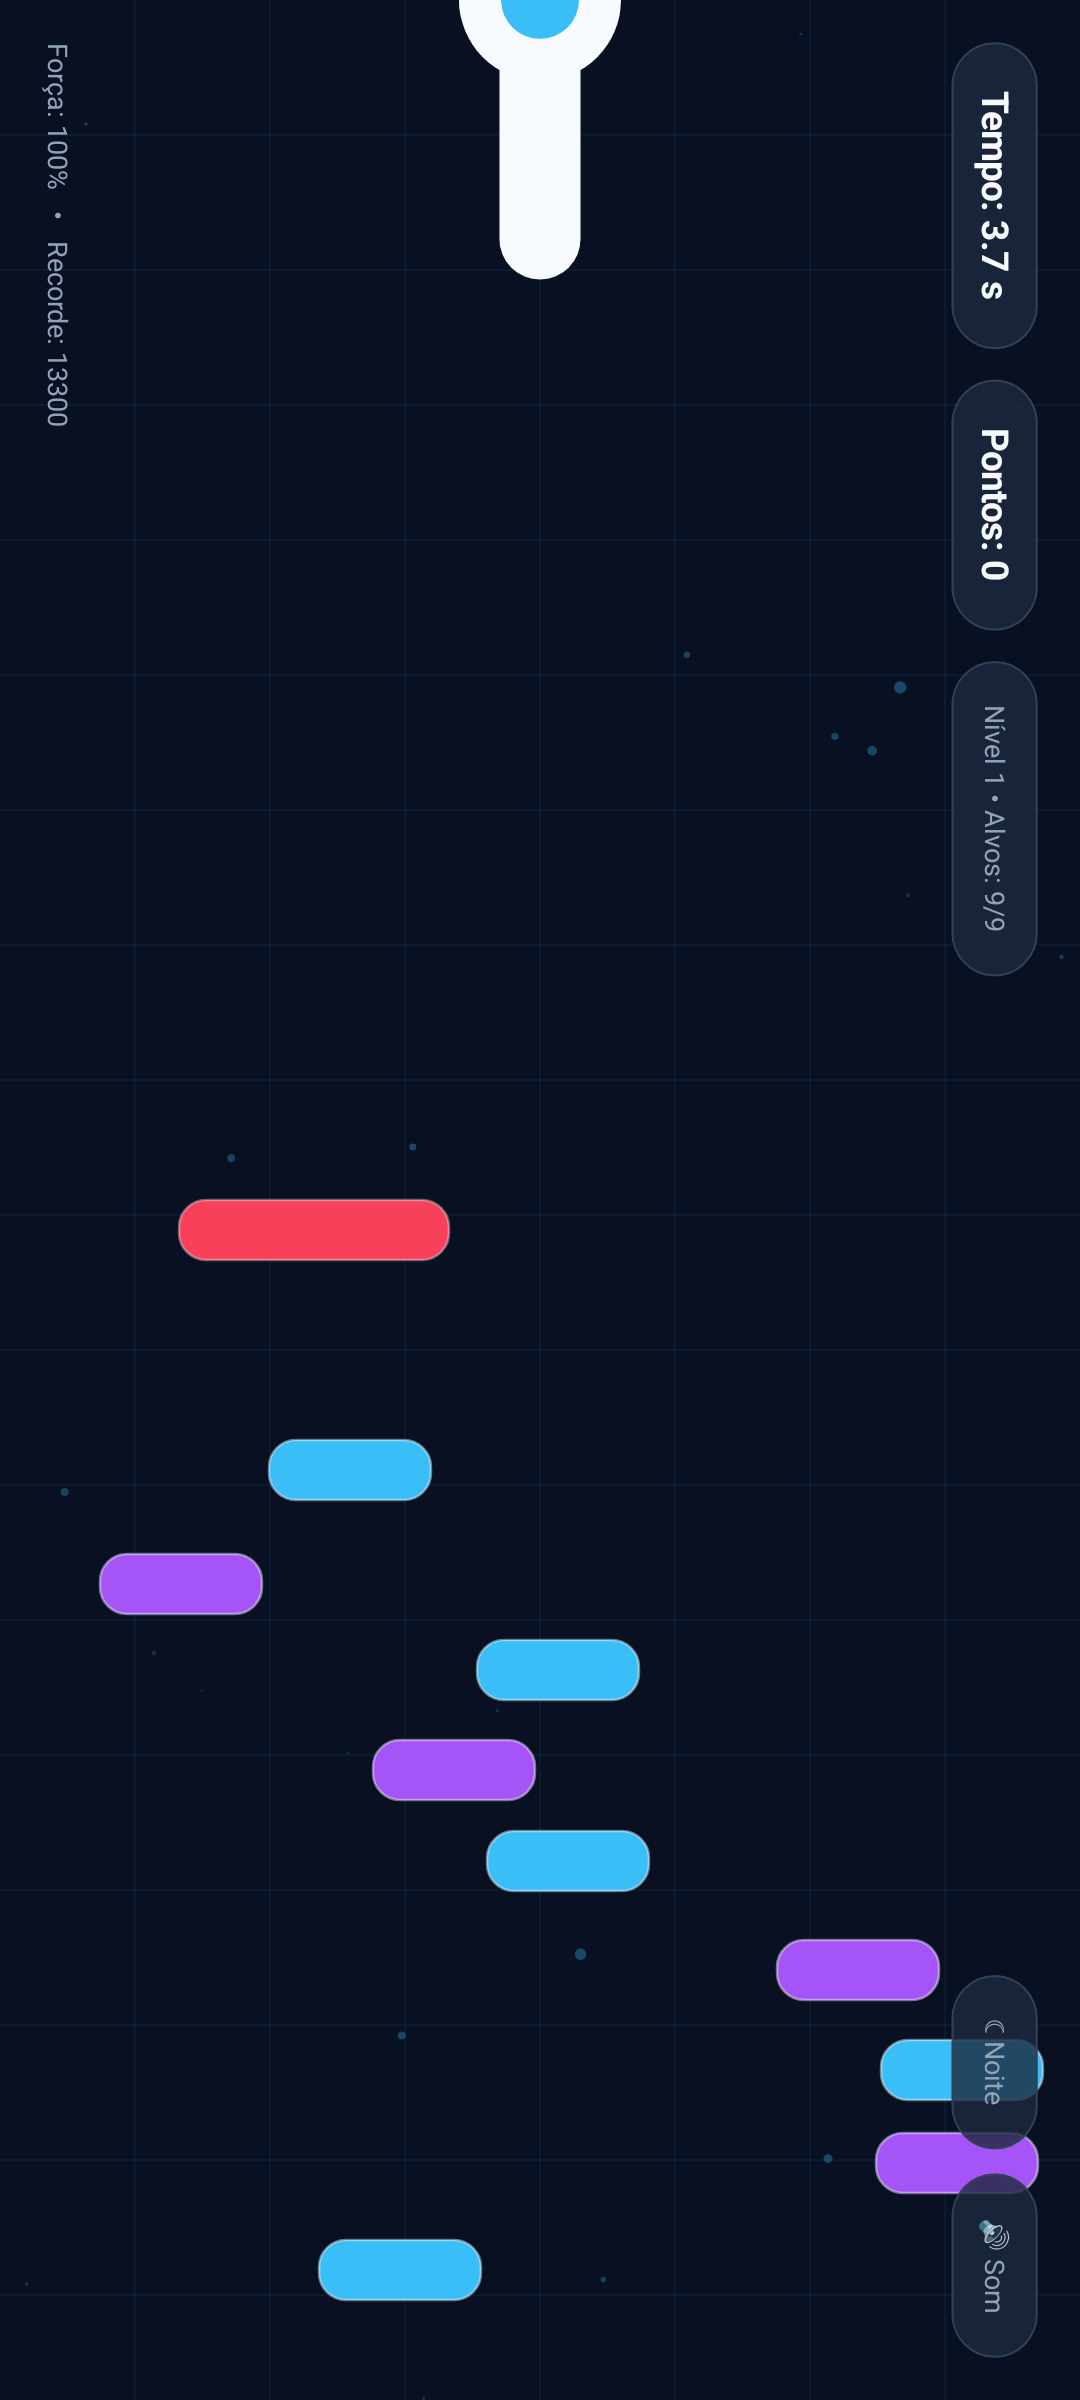
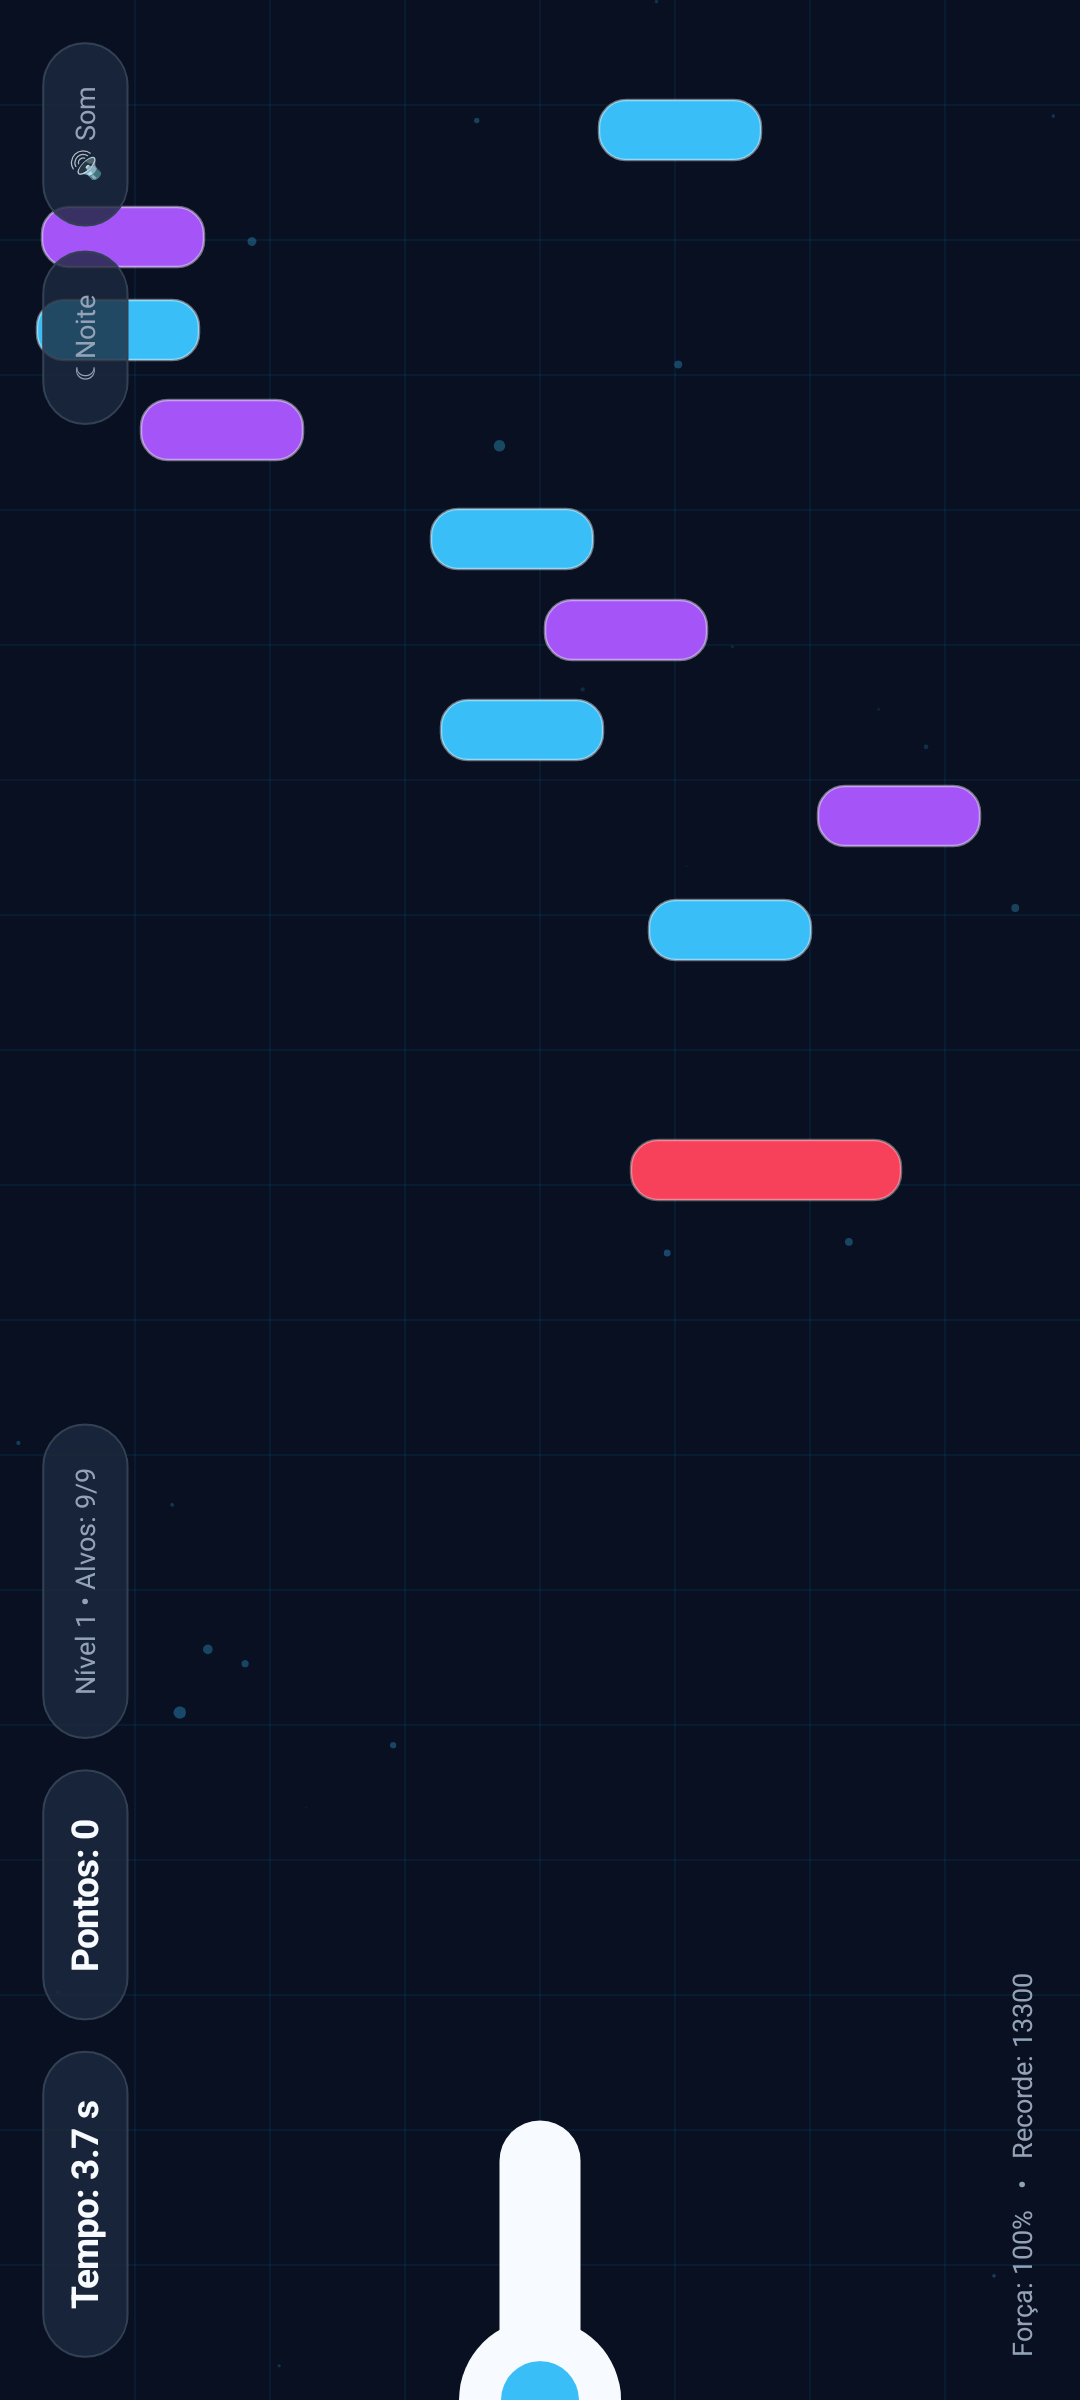
Adicionando imagem no Readme

diff --git a/README.md b/README.md
@@ -1,5 +1,7 @@
 # 🎯 Cannon Game — Android (Java)
 
+![Screenshot](docs/screenshots/Screenshot_20261015_212411.png)
+
 Aplicação Android completa desenvolvida em **Java** para a disciplina de **Programação III**, baseada no **Capítulo 6 – Cannon Game App** do livro *Android 6 for Programmers: An App-Driven Approach (3rd Edition)* (Paul Deitel, Harvey Deitel e Alexander Wald, páginas 217–255), acrescida de **todos os 11 recursos extras** propostos em `References, Requisitos Extras`, visual minimalista.
 
 ---
